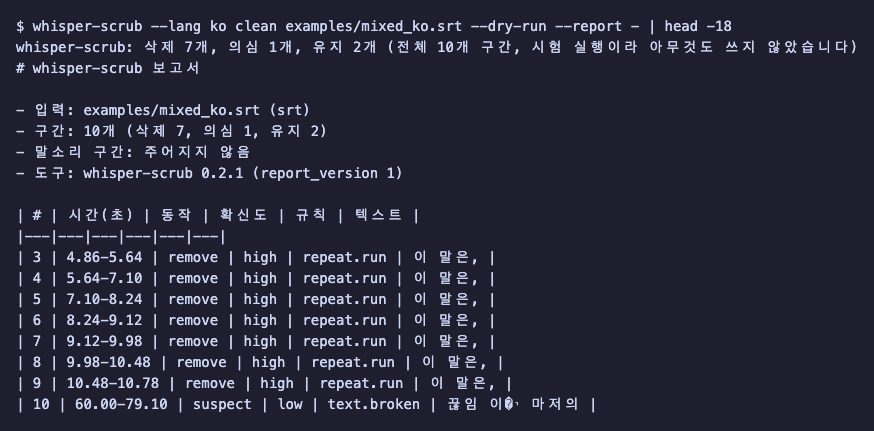
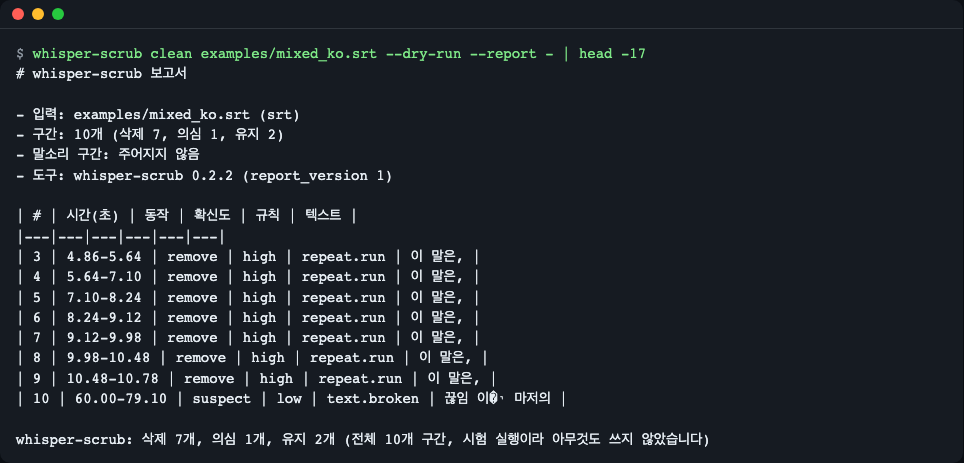
docs(readme): update safeguard notes and screenshots for 0.2.2
Align the safeguard wording and example output with the new warning,
tidy the install-check sentence, and list known issues in the changelog.

diff --git a/README.md b/README.md
@@ -2,7 +2,7 @@
 
 **English** | [한국어](README.ko.md)
 
-A small Python library and CLI that finds and removes Whisper hallucinations (phantom sentences on silence or noise such as `You`, and same-sentence repeat loops) from JSON, SRT and VTT transcripts made by openai-whisper, faster-whisper, whisper.cpp or the OpenAI API. It combines a phrase dictionary, repeat rules, Whisper's own signals and (optionally) audio, keeps timecodes and untouched cues byte-for-byte, and writes a per-segment evidence report on why each was removed. Even without a ground-truth transcript, `check` shows a file's share of suspected hallucinations. Install (not on PyPI yet, so install from the GitHub tag): `pip install "whisper-scrub[audio] @ git+https://github.com/LeeGyeongPil/whisper-scrub@v0.2.1"`, run: `whisper-scrub clean talk.srt --dry-run --report -`. The bundled examples are recorded real outputs ("mock" inputs, no model runs when you try them).
+A small Python library and CLI that finds and removes Whisper hallucinations (phantom sentences on silence or noise such as `You`, and same-sentence repeat loops) from JSON, SRT and VTT transcripts made by openai-whisper, faster-whisper, whisper.cpp or the OpenAI API. It combines a phrase dictionary, repeat rules, Whisper's own signals and (optionally) audio, keeps timecodes and untouched cues byte-for-byte, and writes a per-segment evidence report on why each was removed. Even without a ground-truth transcript, `check` shows a file's share of suspected hallucinations. Install (not on PyPI yet, so install from the GitHub tag): `pip install "whisper-scrub[audio] @ git+https://github.com/LeeGyeongPil/whisper-scrub@v0.2.2"`, run: `whisper-scrub clean talk.srt --dry-run --report -`. The bundled examples are recorded real outputs ("mock" inputs, no model runs when you try them).
 
 ## What it does
 
@@ -18,9 +18,9 @@ Imagine a transcriber who writes "시청해 주셔서 감사합니다" ("Thank y
 
 ```bash
 # Install from the tag-pinned GitHub release (needs git on your PATH)
-pip install "whisper-scrub[audio] @ git+https://github.com/LeeGyeongPil/whisper-scrub@v0.2.1"
+pip install "whisper-scrub[audio] @ git+https://github.com/LeeGyeongPil/whisper-scrub@v0.2.2"
 # With uv, without installing
-uvx --from git+https://github.com/LeeGyeongPil/whisper-scrub@v0.2.1 whisper-scrub --help
+uvx --from git+https://github.com/LeeGyeongPil/whisper-scrub@v0.2.2 whisper-scrub --help
 ```
 
 If the project is already published on PyPI, the bare package name works too (if the install fails with "no matching distribution", it is not published yet; use the GitHub tag install above):
@@ -32,7 +32,7 @@ pip install "whisper-scrub[audio]"   # once published on PyPI
 - Python 3.10 or later. The base install has 0 runtime dependencies. The `[audio]` extra adds only numpy, and it is needed only when you read audio files directly (`--audio`). If you will use only a speech-interval JSON (`--speech`) or meta signals, `pip install whisper-scrub` (once published on PyPI) or the same GitHub command without `[audio]` is enough.
 - With uv, once published on PyPI: `uv add "whisper-scrub[audio]"`, or without installing, `uvx whisper-scrub --help`. (Install uv: `curl -LsSf https://astral.sh/uv/install.sh | sh`)
 - Install from source: `pip install "git+https://github.com/LeeGyeongPil/whisper-scrub"` (installs with `git+` need git installed)
-- The tag-pinned GitHub install via `uvx --from git+https://github.com/LeeGyeongPil/whisper-scrub@v0.2.0 whisper-scrub --lang en --version` was confirmed to run (v0.2.0, the same install form as v0.2.1). The PyPI commands were not run here.
+- The tag-pinned GitHub install via `uvx --from git+https://github.com/LeeGyeongPil/whisper-scrub@v0.2.0 whisper-scrub --lang en --version` was confirmed to run (confirmed on v0.2.0; the tag-pinned install form is the same for every version). The PyPI commands were not run here.
 
 ## Quick start
 
@@ -62,7 +62,7 @@ whisper-scrub: removed 7, suspect 1, kept 2 of 10 segments (dry run, nothing wri
 - input: examples/mixed_ko.srt (srt)
 - segments: 10 (removed 7, suspect 1, kept 2)
 - speech intervals: not provided
-- tool: whisper-scrub 0.2.1 (report_version 1)
+- tool: whisper-scrub 0.2.2 (report_version 1)
 
 | # | time (s) | action | confidence | rules | text |
 |---|---|---|---|---|---|
@@ -213,15 +213,15 @@ uv run whisper-scrub clean examples/mixed_en.srt --speech empty.json --dry-run -
 ```
 
 ```text
-whisper-scrub: warning: speech intervals cover almost none of the transcript - check the file and its units (seconds) or the recording level; the audio rules were skipped, so nothing was deleted because of the audio
+whisper-scrub: warning: speech intervals cover almost none of the transcript - check the file and its units (seconds) or the recording level; the speech-interval rule (audio.no_speech) was skipped, so nothing was deleted because of missing speech (audio.beyond_end, based on the audio length, still applies)
 whisper-scrub: removed 0, suspect 1, kept 2 of 3 segments (dry run, nothing written)
 # whisper-scrub report
 
 - input: examples/mixed_en.srt (srt)
 - segments: 3 (removed 0, suspect 1, kept 2)
 - speech intervals: 0
-- tool: whisper-scrub 0.2.1 (report_version 1)
-- WARNING: speech intervals cover almost none of the transcript - check the file and its units (seconds) or the recording level; the audio rules were skipped, so nothing was deleted because of the audio
+- tool: whisper-scrub 0.2.2 (report_version 1)
+- WARNING: speech intervals cover almost none of the transcript - check the file and its units (seconds) or the recording level; the speech-interval rule (audio.no_speech) was skipped, so nothing was deleted because of missing speech (audio.beyond_end, based on the audio length, still applies)
 
 | # | time (s) | action | confidence | rules | text |
 |---|---|---|---|---|---|
@@ -358,7 +358,7 @@ result = scrub(segments, config=Config(phrases=book, repeat_min=4))
 
 - **The ko, ja and zh dictionaries are thin.** Only 1 Korean, 2 Japanese and 3 Chinese entries (the principle is to include only what was confirmed by reproduction). Most Korean phrases are caught not by the dictionary but by `repeat.run`, meta and audio signals. Put phrases you see in your own data into the user dictionary.
 - **Speech intervals that are wrong only in part can still delete real speech.** A segment with 0 overlap and 1 second or longer is deleted alone by `audio.no_speech` even if the sentence is not in the dictionary. If the intervals are empty or do not overlap with most sentences, it warns and ignores them, but intervals that are off only in part are followed as they are. The energy detector cannot separate speech from loud noise. Look with `--dry-run` first. Change the 1-second criterion with `--phantom-min-seconds`.
-- **For a recording that is silent throughout, the audio rules are turned off because of the safeguard.** A hallucination over a file with no speech at all cannot be caught by `audio.no_speech`. If the file really is like that, force it with `--no-speech-guard`.
+- **For a recording that is silent throughout, the `audio.no_speech` rule is turned off because of the safeguard (`audio.beyond_end` stays on).** A hallucination over a file with no speech at all cannot be caught by `audio.no_speech`. If the file really is like that, force it with `--no-speech-guard`.
 - **The same sentence 3 or more times in a row is collapsed.** "네 네 네" in real conversation can be collapsed too. Adjust with `--repeat-min N` (in Python, `Config(repeat_min=...)`).
 - Audio is read directly only as 16-bit PCM WAV. Convert other formats with ffmpeg first.
 - There is not yet a real mode (a `[whisper]` extra that runs transcription as well in one go). All examples are recorded inputs.
@@ -368,7 +368,7 @@ result = scrub(segments, config=Config(phrases=book, repeat_min=4))
 | Symptom | Cause | Fix |
 |---|---|---|
 | A single `You` line is not deleted and appears only as `suspect` | An SRT has no meta signals and there is no audio evidence | Give `--speech` (speech-interval JSON) or `--audio` |
-| CLI: `whisper-scrub: error: numpy is required for --audio ...` (exit code 2), Python API: `MissingExtraError` | numpy is missing | `pip install "whisper-scrub[audio] @ git+https://github.com/LeeGyeongPil/whisper-scrub@v0.2.1"` (or `pip install "whisper-scrub[audio]"` once published on PyPI) |
+| CLI: `whisper-scrub: error: numpy is required for --audio ...` (exit code 2), Python API: `MissingExtraError` | numpy is missing | `pip install "whisper-scrub[audio] @ git+https://github.com/LeeGyeongPil/whisper-scrub@v0.2.2"` (or `pip install "whisper-scrub[audio]"` once published on PyPI) |
 | CLI: `whisper-scrub: error: cannot read <file> as a WAV file ...`, Python API: `AudioError` | The input is not a WAV or not 16-bit | `ffmpeg -i in.mp3 -ar 16000 -ac 1 -c:a pcm_s16le out.wav` |
 | `UnknownFormatError` | An unsupported JSON or subtitle format | Convert to a supported format (list above), or pass the segment list directly to `scrub()` |
 | Exit code 2 | Usage error (arguments, file path, `-o` equal to the input, etc.) | Follow the guidance in the one-line message |
@@ -380,7 +380,7 @@ result = scrub(segments, config=Config(phrases=book, repeat_min=4))
 ## Versions and compatibility
 
 - Follows Semantic Versioning (SemVer). During 0.x, the API may change in minor versions, and changes are recorded in [CHANGELOG.md](CHANGELOG.md).
-- Currently 0.2.1. Python 3.10 to 3.14 is declared as supported, and CI runs on 3.10 and 3.12 (ubuntu).
+- Currently 0.2.2. Python 3.10 to 3.14 is declared as supported, and CI runs on 3.10 and 3.12 (ubuntu).
 
 ## Development and contributing
 
@@ -390,7 +390,7 @@ uv run pytest -q
 ```
 
 ```text
-159 passed, 1 skipped in 0.61s
+160 passed, 1 skipped in 0.69s
 ```
 
 The 1 skipped test is the test marked `real` that needs a real model (skipped if `WHISPER_SCRUB_MODEL_DIR` is not set). A contribution that adds a phrase to the dictionary must come with **the evidence of a reproduced run (model, input, output)**.

diff --git a/CHANGELOG.md b/CHANGELOG.md
@@ -4,6 +4,25 @@ All notable changes to this project are documented in this file.
 The format is based on [Keep a Changelog](https://keepachangelog.com/en/1.1.0/),
 and this project adheres to [Semantic Versioning](https://semver.org/spec/v2.0.0.html).
 
+## [0.2.2] - 2026-11-13
+
+### Fixed
+- The speech-interval safeguard warning said "the audio rules were skipped", but only `audio.no_speech` is
+  skipped; `audio.beyond_end` (based on the audio length) still applies and can remove segments in the same
+  run. The warning (English and Korean), the README safeguard notes and a code comment now name the rule
+  that is actually skipped. Verdicts, exit codes and JSON keys are unchanged.
+
+### Changed
+- The English text of the warning (`SPEECH_GUARD_WARNING`, `ScrubResult.warnings`, JSON `warnings`) changed;
+  scripts that compared the old string must be updated. The 0.1.0 known limitation about this wording is
+  resolved.
+
+### Known issues
+- When only `--speech` is given and the audio length is unknown (no `--audio`, `--duration` or JSON
+  duration), the warning still says `audio.beyond_end` applies; it only runs when the length is known.
+- In the Korean display language the rule explanations under Evidence stay in English.
+- The numpy hint (see 0.2.1) still suggests the PyPI form until the package is published.
+
 ## [0.2.1] - 2026-11-13
 
 ### Fixed
